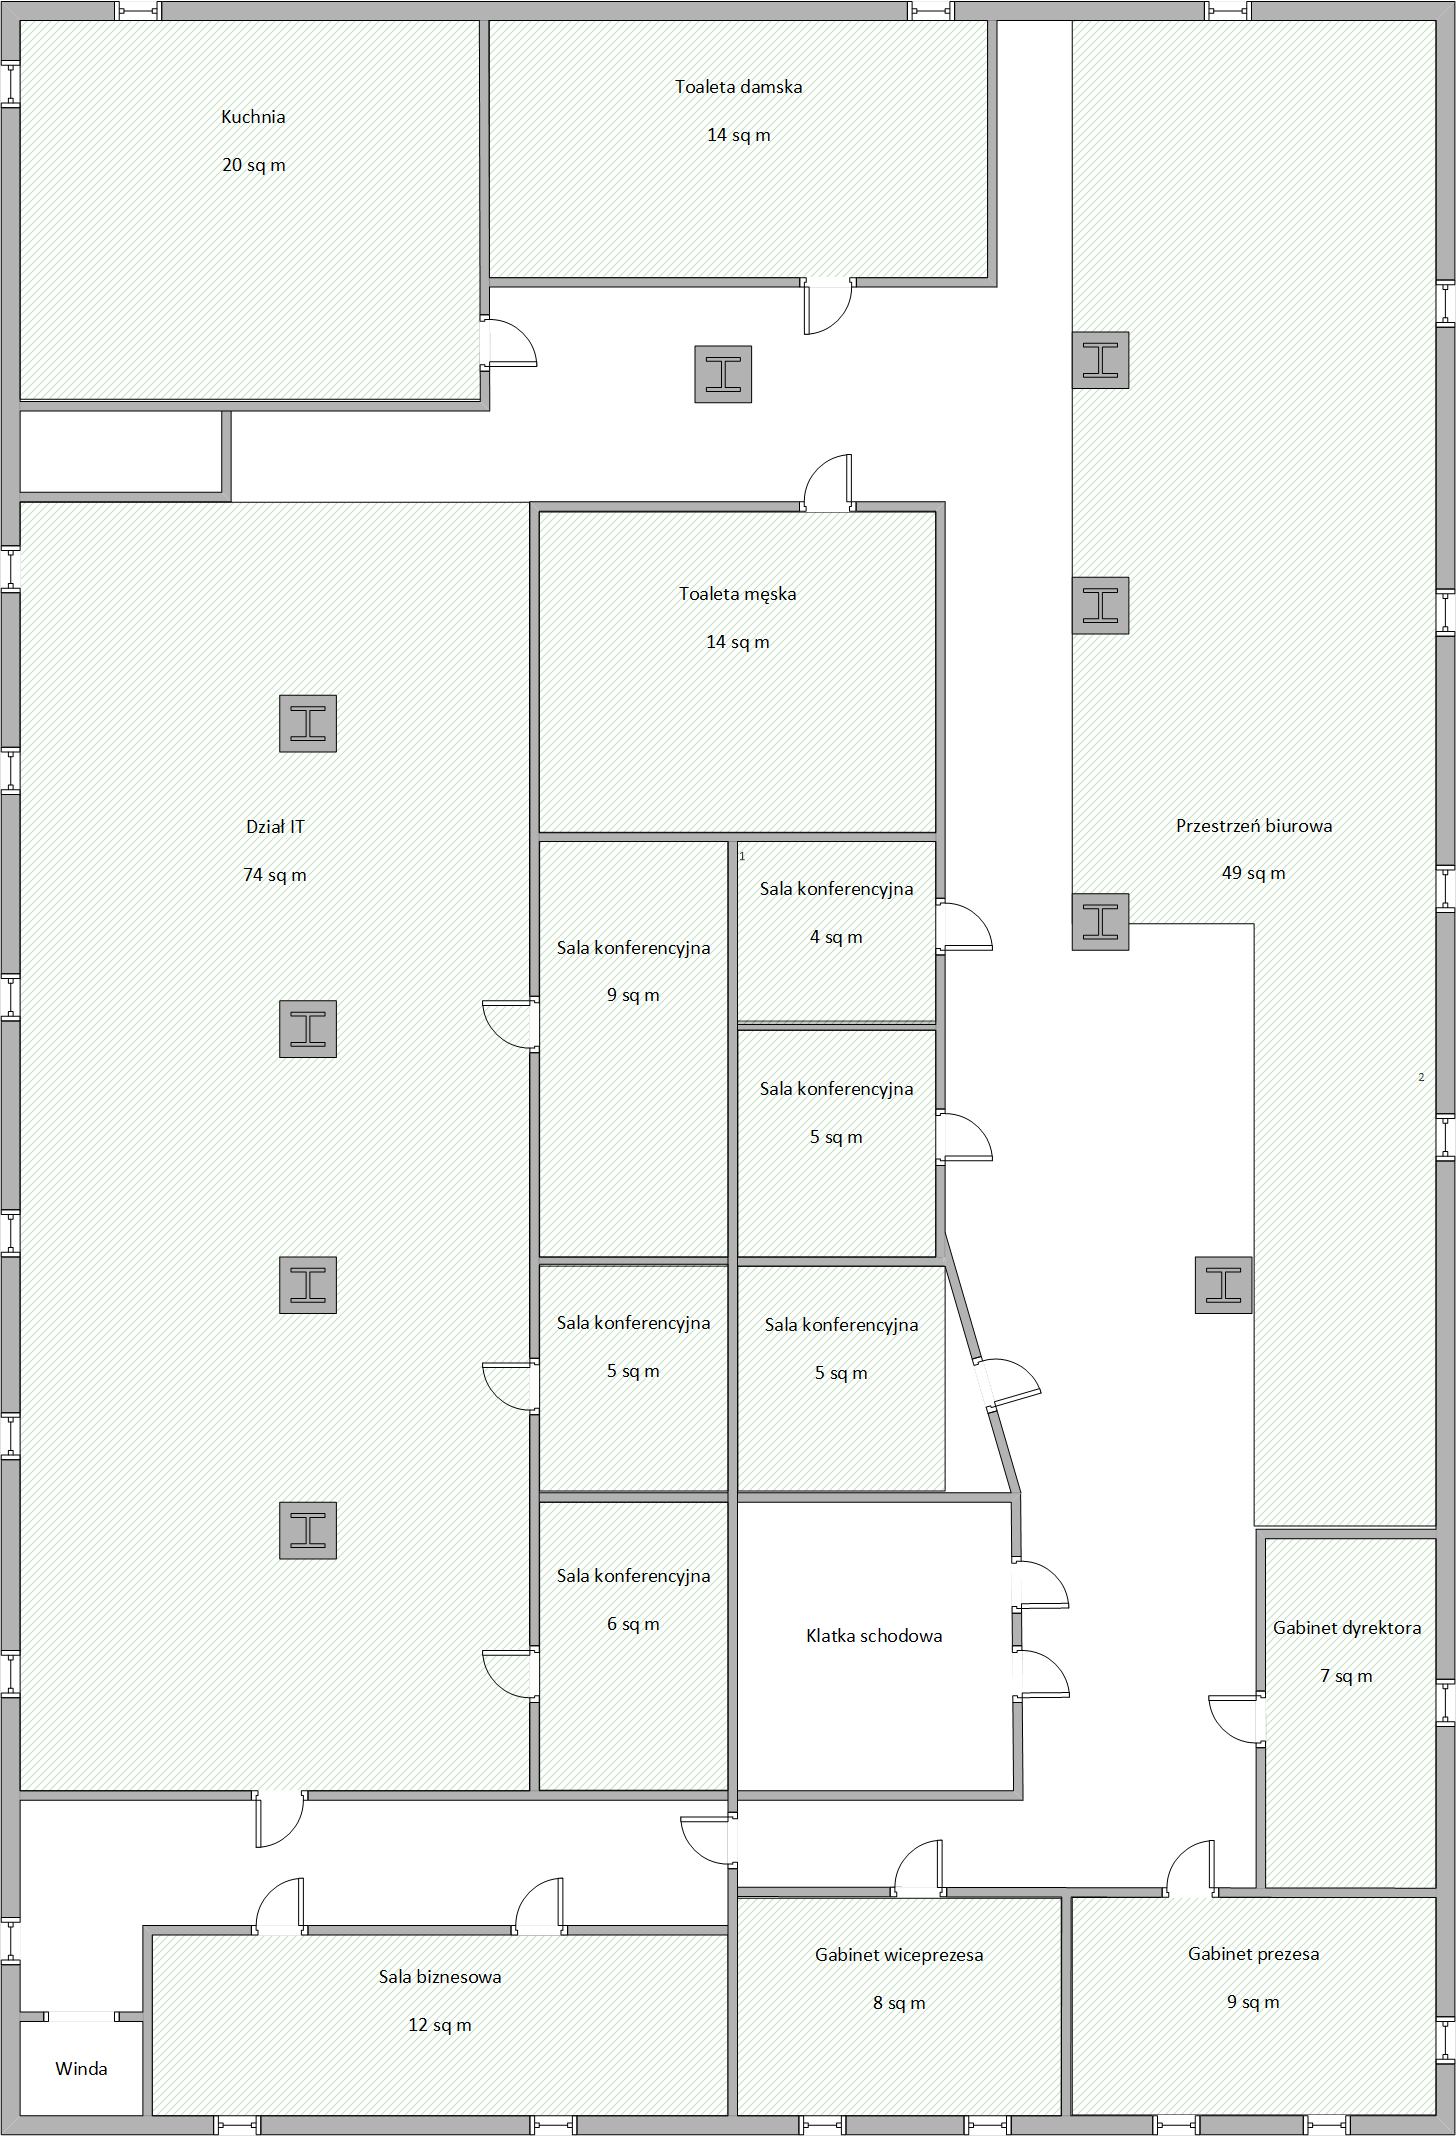
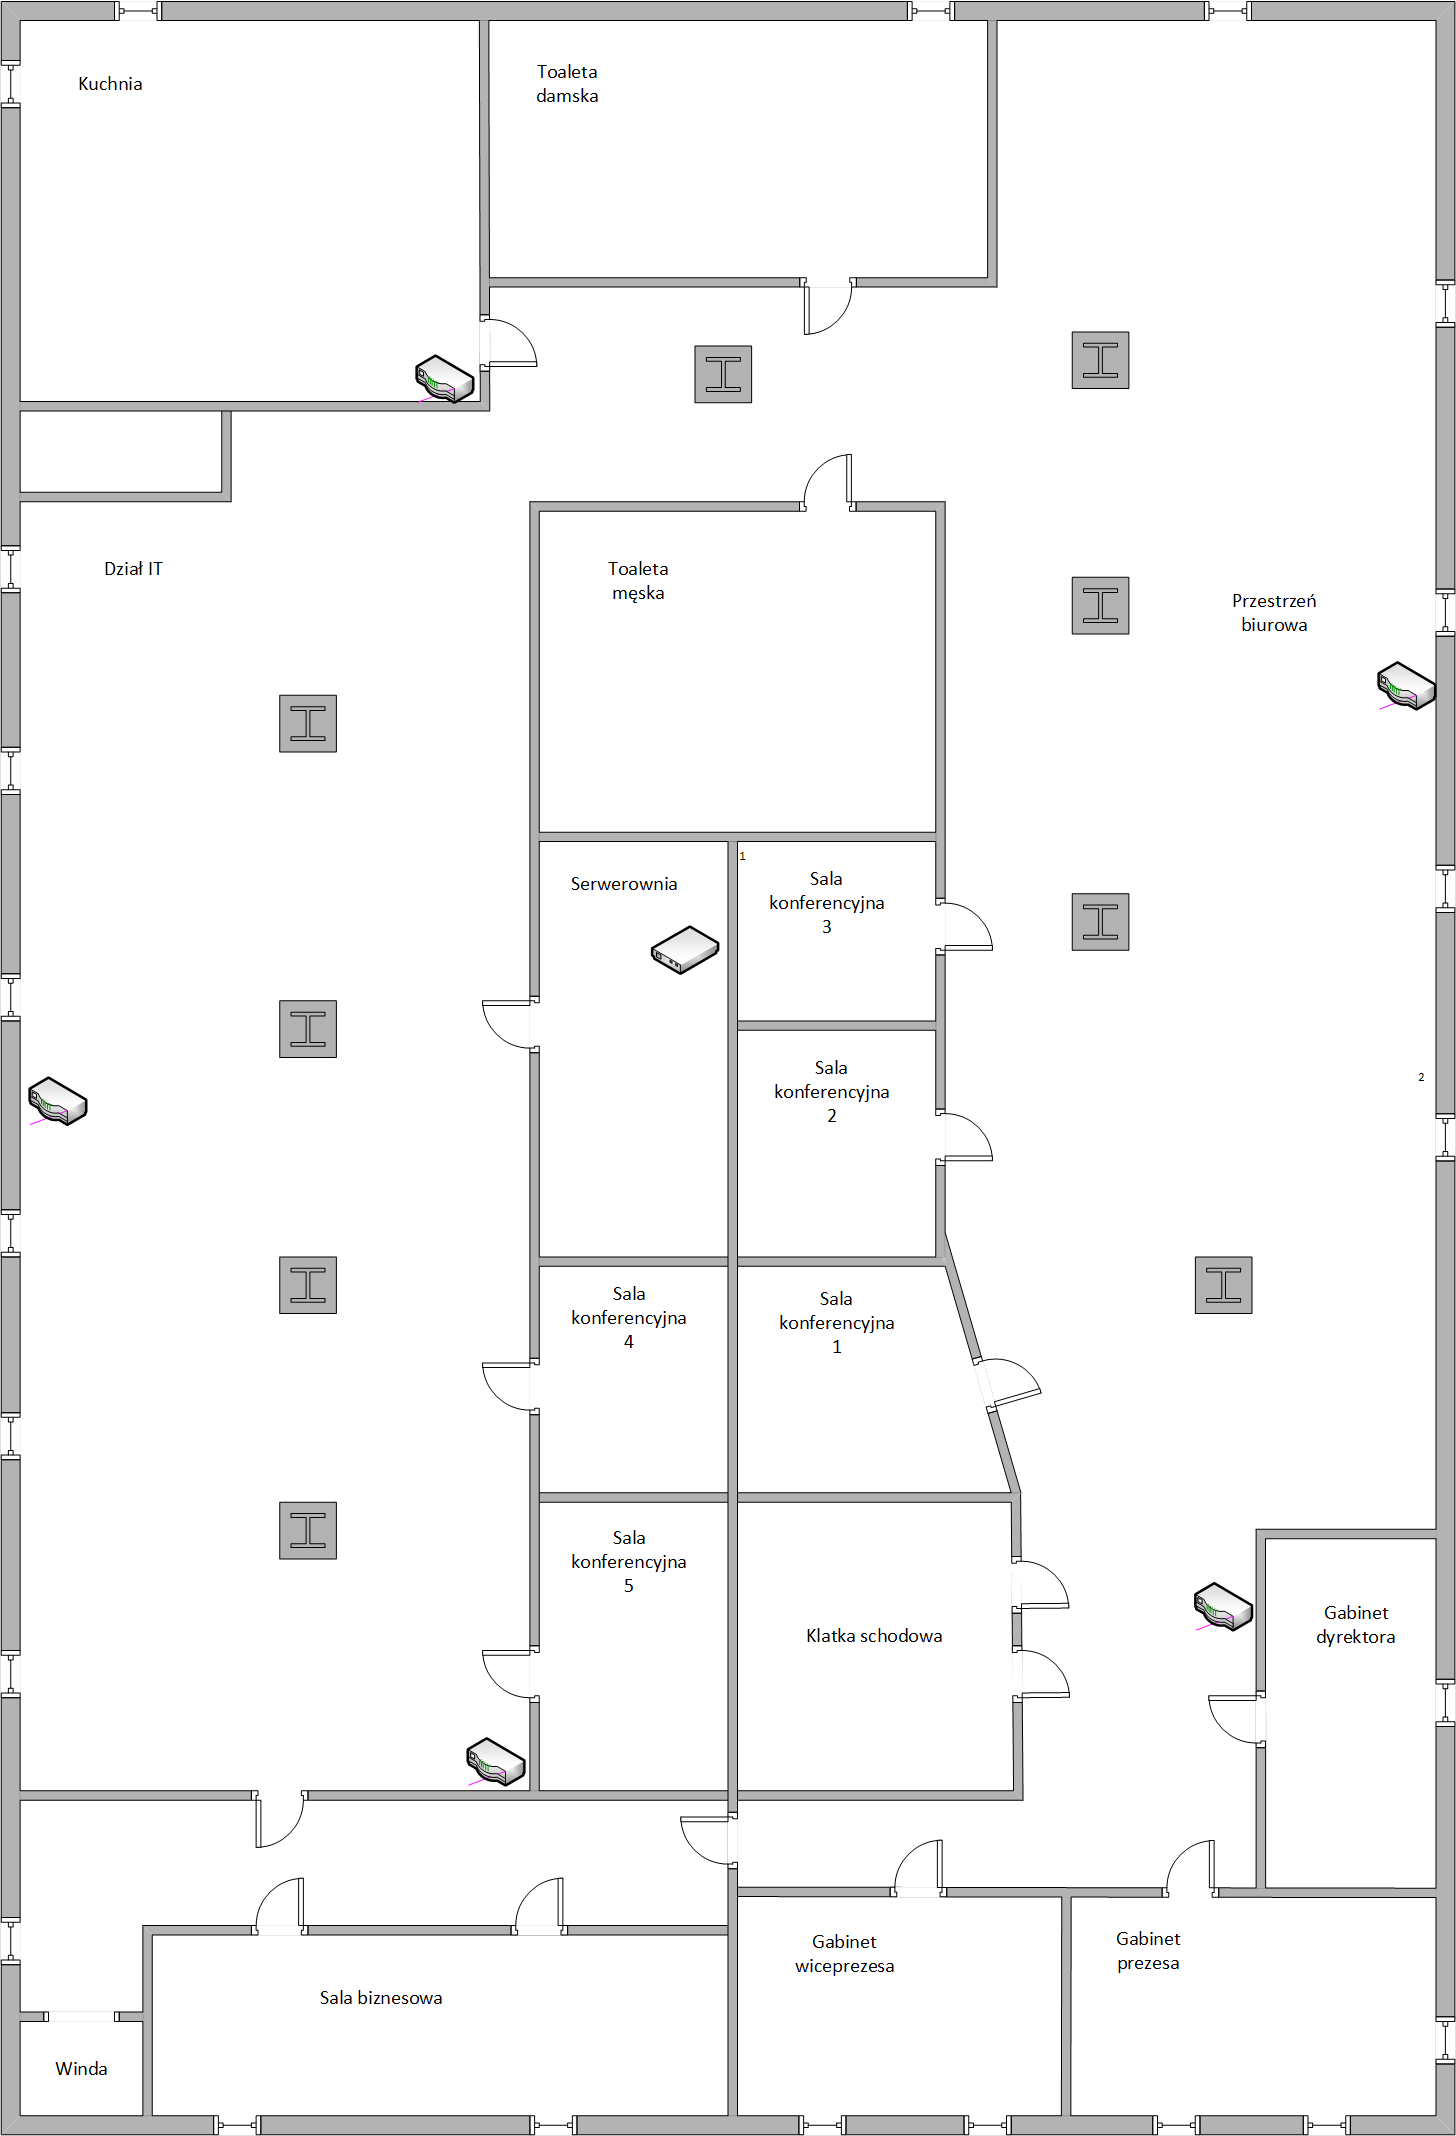
Networking and devices

Changed region(s): [[0.0, 0.2472, 0.649, 0.8343], [0.1236, 0.0, 0.989, 0.9888], [0.0, 0.0309, 0.6799, 0.1854]]

diff --git a/pl.tex b/pl.tex
@@ -98,11 +98,13 @@
                     \hline
                     \textbf{Typ} & \textbf{Ilość} \\
                     \hline
-                    % 33 IT + 5 OK + 5 PT + + 2 DK + 1 Serwer lokalny
-                    Komputer stacjonarny & 46 \\
+                    % 33 IT + 5 OK + 5 PT + + 2 DK
+                    Komputer Dell All In One OptiPlex 5250 & 45 \\
+                    \hline
+                    Serwer Dell PowerEdge R610 & 1 \\
                     \hline
                     % 3 Zarząd + 1 Kierownik IT + 4 Graficy + 5 DH + 2 DP
-                    Laptop klasy biznes & 15 \\
+                    Laptop DELL Vostro 5370 & 15 \\
                     \hline
                     % 4 Graficy
                     Tablet graficzny & 4 \\
@@ -110,7 +112,11 @@
                     % 5 OK + 5 PT
                     Słuchawki z mikrofonem & 10 \\
                     \hline
-                    Router & 1 \\
+                    Router TP-Link TL-WR1042nD & 1 \\
+                    \hline
+                    Switch TP-LINK T1600G-28TS & 3 \\
+                    \hline
+                    Access Point TP-LINK EAP110 & 5 \\
                     \hline
                     Drukarka sieciowa & 1 \\
                     \hline
@@ -198,4 +204,7 @@
 
             \paragraph{Dokumenty w formie papierowej}
             Archiwizowane są w szafie zamykanej na klucz.
+            
+        \section{Dystrybucja energii elektrycznej i sygnałów teletechnicznych}
+            W biurze zainstalowane są kolumny elektoroinstalacyjne przy ścianach oraz instalacje podpodłogowe, które dostarczają prąd oraz zapewniają dostęp do sieci poprzez gniazda RJ 45. Wszystko jest podłączone do switchy znajdujących się w serwerowni.
 \end{document}
